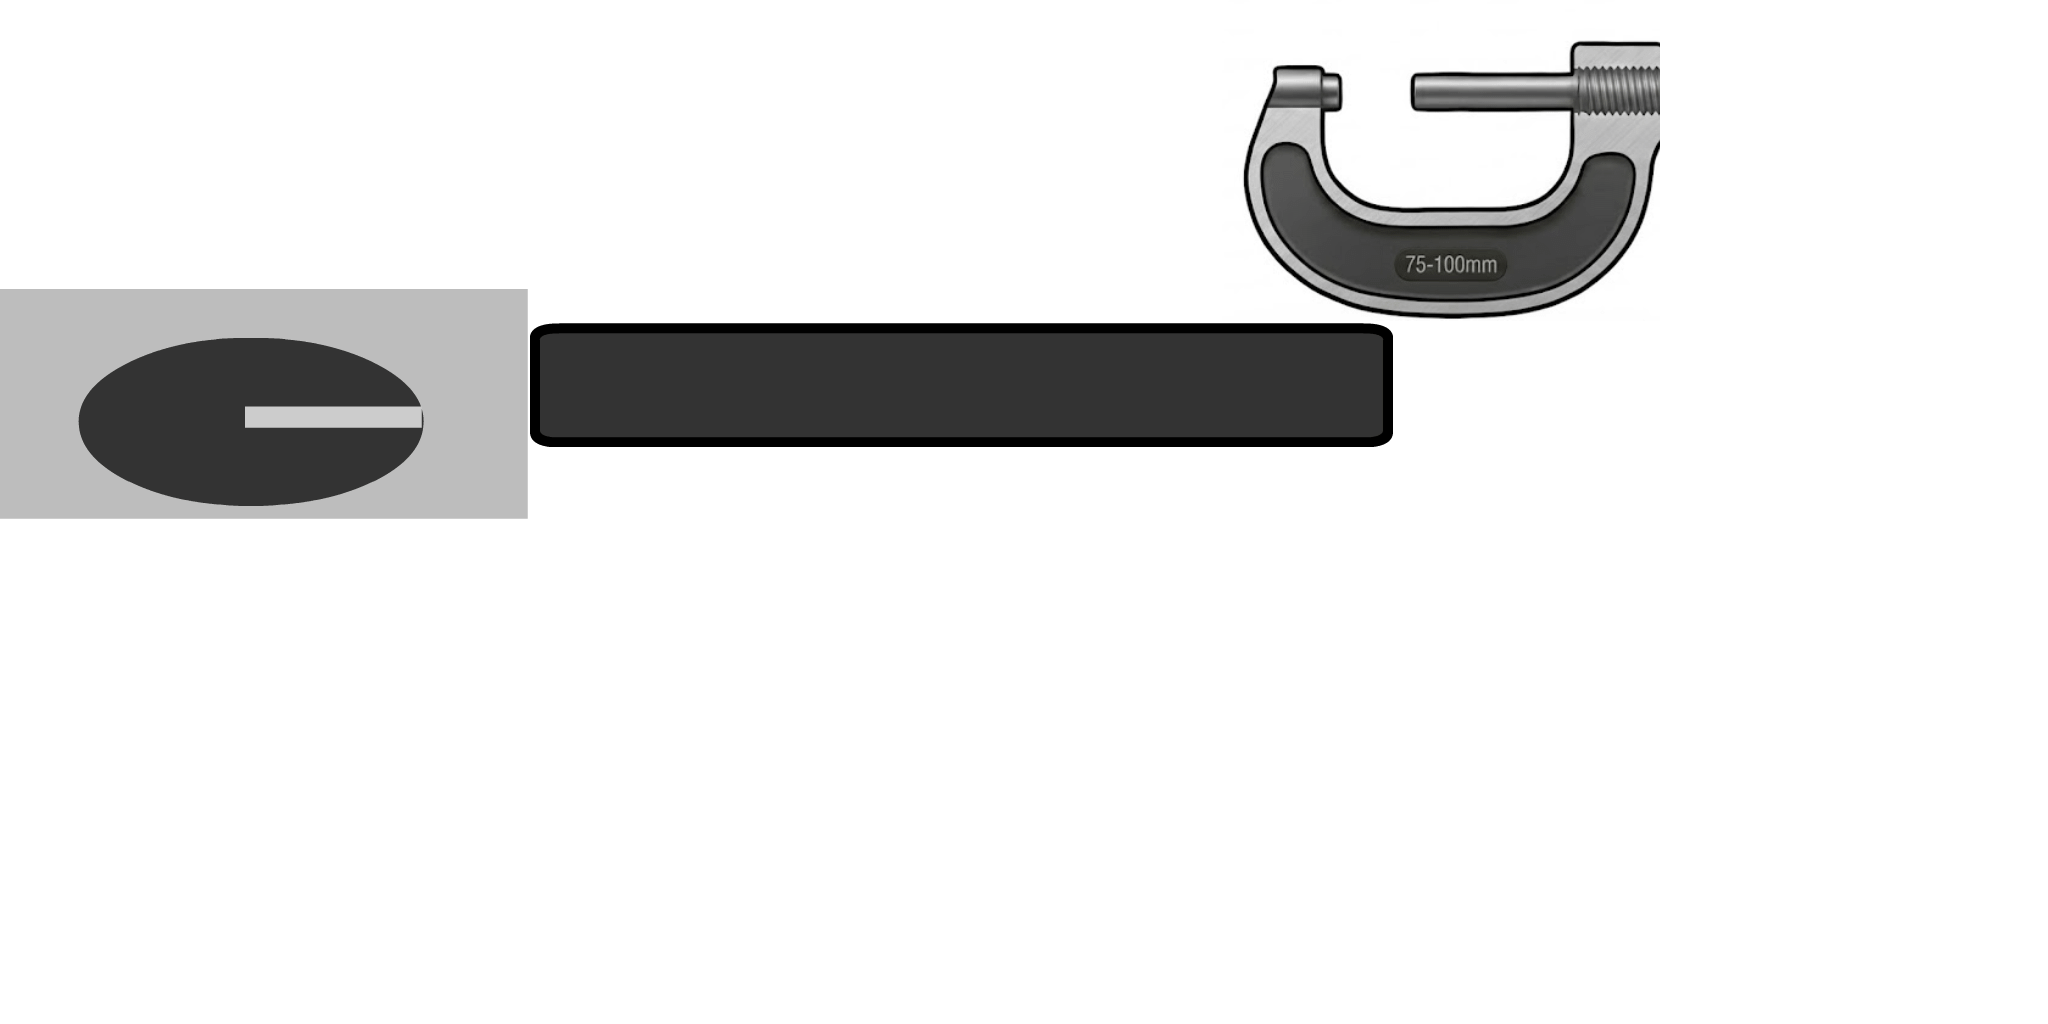
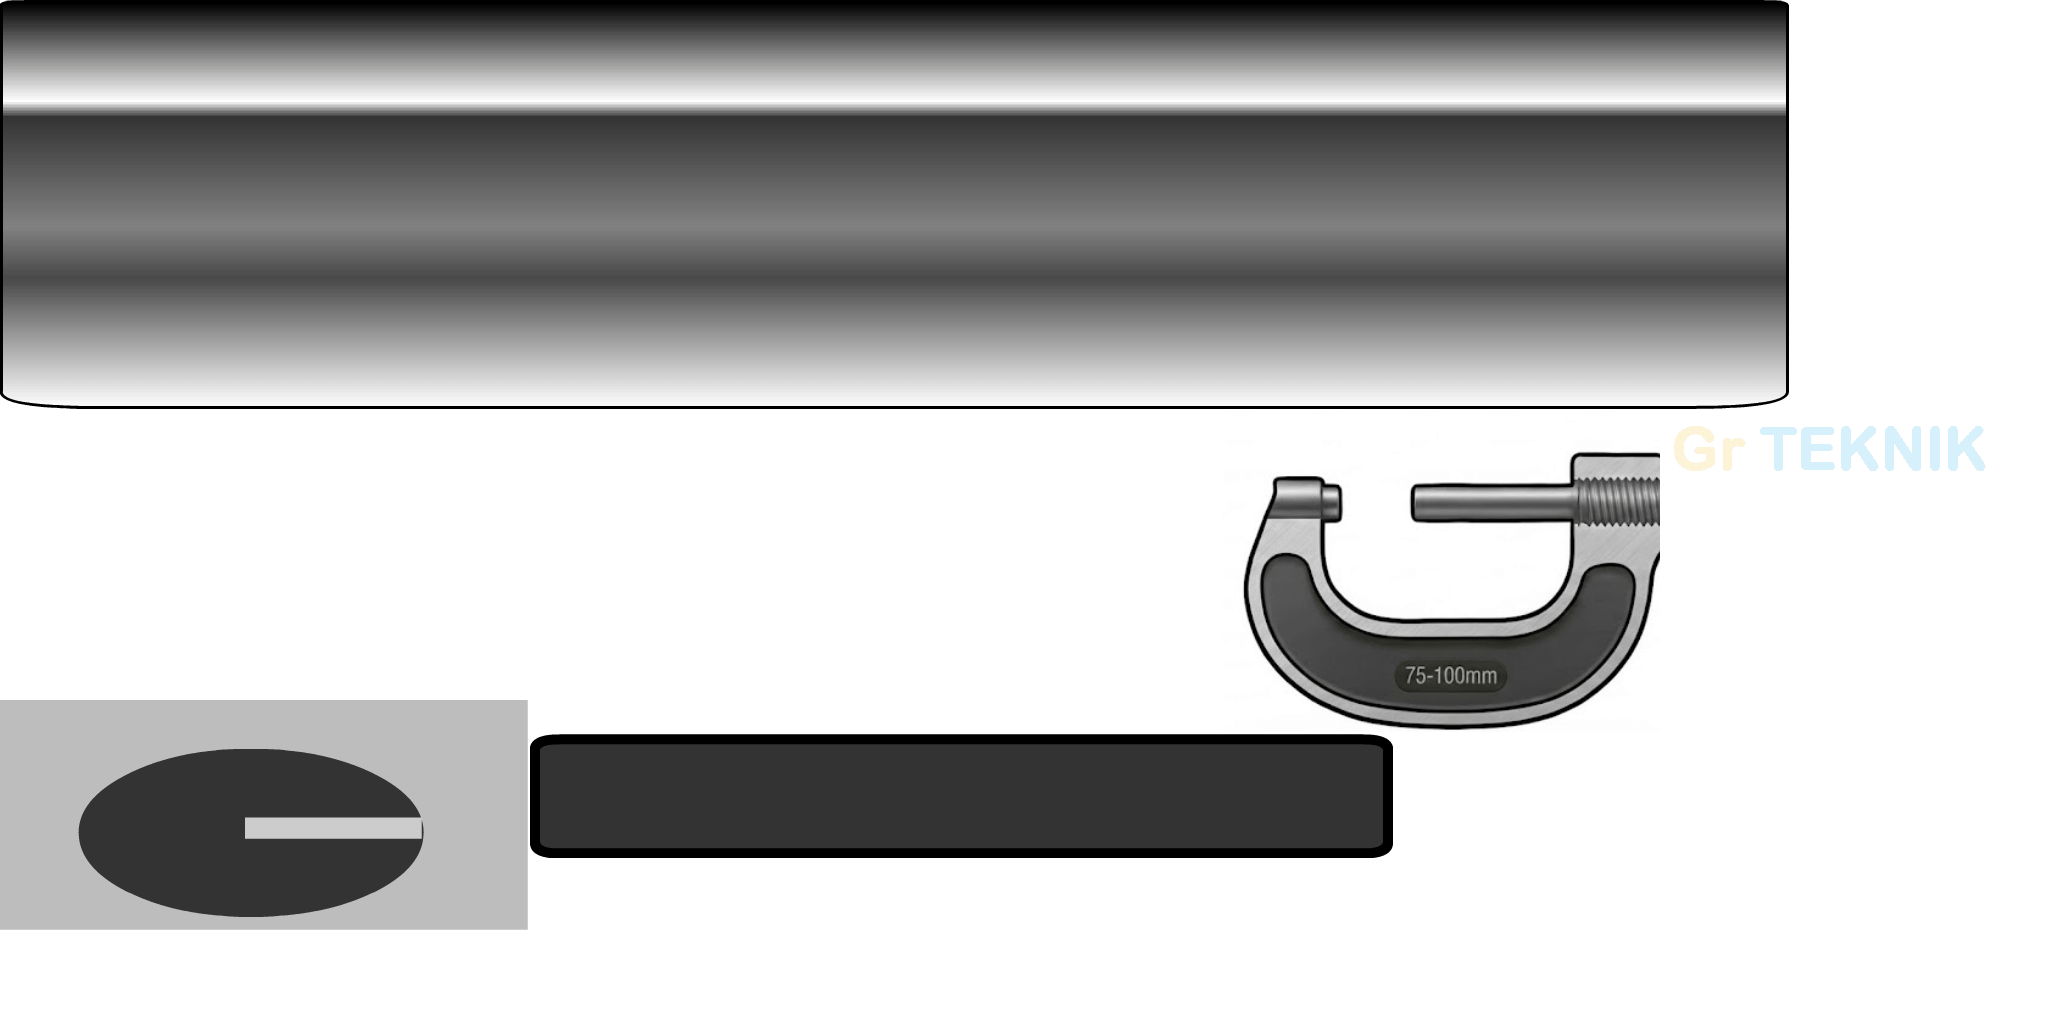
Add files via upload

diff --git a/Kukuh_Adityo_Prastowo/Alat Ukur/Micrometer/micrometer50.js b/Kukuh_Adityo_Prastowo/Alat Ukur/Micrometer/micrometer50.js
@@ -3,7 +3,7 @@
 var p; // shortcut to reference prototypes
 var lib={};var ss={};var img={};
 lib.ssMetadata = [
-		{name:"micrometer50_atlas_1", frames: [[530,323,863,124],[0,0,1220,287],[0,289,528,230],[1222,0,438,321]]}
+		{name:"micrometer50_atlas_1", frames: [[0,0,1789,409],[530,734,863,124],[0,411,1220,287],[0,700,528,230],[1222,411,438,321],[1662,411,335,73]]}
 ];
 
 
@@ -27,10 +27,17 @@ lib.ssMetadata = [
 
 
 
-(lib.CachedBmp_36 = function() {
-	this.initialize(img.CachedBmp_36);
+(lib.CachedBmp_40 = function() {
+	this.initialize(ss["micrometer50_atlas_1"]);
+	this.gotoAndStop(0);
+}).prototype = p = new cjs.Sprite();
+
+
+
+(lib.CachedBmp_39 = function() {
+	this.initialize(img.CachedBmp_39);
 }).prototype = p = new cjs.Bitmap();
-p.nominalBounds = new cjs.Rectangle(0,0,3835,409);
+p.nominalBounds = new cjs.Rectangle(0,0,2199,383);
 
 
 (lib.CachedBmp_31 = function() {
@@ -41,28 +48,47 @@ p.nominalBounds = new cjs.Rectangle(0,0,3252,304);
 
 (lib.CachedBmp_30 = function() {
 	this.initialize(ss["micrometer50_atlas_1"]);
-	this.gotoAndStop(0);
+	this.gotoAndStop(1);
 }).prototype = p = new cjs.Sprite();
 
 
 
 (lib.CachedBmp_29 = function() {
 	this.initialize(ss["micrometer50_atlas_1"]);
-	this.gotoAndStop(1);
+	this.gotoAndStop(2);
 }).prototype = p = new cjs.Sprite();
 
 
 
 (lib.CachedBmp_28 = function() {
 	this.initialize(ss["micrometer50_atlas_1"]);
-	this.gotoAndStop(2);
+	this.gotoAndStop(3);
 }).prototype = p = new cjs.Sprite();
 
 
 
+(lib.CachedBmp_38 = function() {
+	this.initialize(img.CachedBmp_38);
+}).prototype = p = new cjs.Bitmap();
+p.nominalBounds = new cjs.Rectangle(0,0,2567,1445);
+
+
+(lib.CachedBmp_37 = function() {
+	this.initialize(img.CachedBmp_37);
+}).prototype = p = new cjs.Bitmap();
+p.nominalBounds = new cjs.Rectangle(0,0,2574,1452);
+
+
 (lib.Bitmap1 = function() {
 	this.initialize(ss["micrometer50_atlas_1"]);
-	this.gotoAndStop(3);
+	this.gotoAndStop(4);
+}).prototype = p = new cjs.Sprite();
+
+
+
+(lib.BitmapGrTeknik = function() {
+	this.initialize(ss["micrometer50_atlas_1"]);
+	this.gotoAndStop(5);
 }).prototype = p = new cjs.Sprite();
 // helper functions:
 
@@ -273,14 +299,29 @@ if (reversed == null) { reversed = false; }
 	this.timeline.addTween(cjs.Tween.get(this).call(this.frame_0).wait(1));
 
 	// Layer_1
-	this.instance = new lib.CachedBmp_36();
-	this.instance.setTransform(-0.35,-57.35,0.3208,0.3208);
+	this.instance = new lib.BitmapGrTeknik();
+	this.instance.setTransform(-15.95,-12.95,1.7774,0.4864);
 
-	this.timeline.addTween(cjs.Tween.get(this.instance).wait(1));
+	this.instance_1 = new lib.BitmapGrTeknik();
+	this.instance_1.setTransform(-15.95,-12.95,1.7774,0.4864);
+
+	this.instance_2 = new lib.BitmapGrTeknik();
+	this.instance_2.setTransform(-15.95,-12.95,1.7774,0.4864);
+
+	this.instance_3 = new lib.BitmapGrTeknik();
+	this.instance_3.setTransform(-15.95,-12.95,1.7774,0.4864);
+
+	this.instance_4 = new lib.CachedBmp_40();
+	this.instance_4.setTransform(-0.4,-57.35,0.3208,0.3208);
+
+	this.instance_5 = new lib.CachedBmp_39();
+	this.instance_5.setTransform(524.6,-52.95,0.3208,0.3208);
+
+	this.timeline.addTween(cjs.Tween.get({}).to({state:[{t:this.instance_5},{t:this.instance_4},{t:this.instance_3},{t:this.instance_2},{t:this.instance_1},{t:this.instance}]}).wait(1));
 
 	this._renderFirstFrame();
 
-}).prototype = getMCSymbolPrototype(lib.rachet, new cjs.Rectangle(-0.3,-57.3,1230.3,131.2), null);
+}).prototype = getMCSymbolPrototype(lib.rachet, new cjs.Rectangle(-15.9,-57.3,1246,131.2), null);
 
 
 (lib.kalibrasiBtn = function(mode,startPosition,loop,reversed) {
@@ -1048,7 +1089,7 @@ if (reversed == null) { reversed = false; }
 
 	this._renderFirstFrame();
 
-}).prototype = getMCSymbolPrototype(lib.Micrometer, new cjs.Rectangle(-1464.1,-418.1,3075.8999999999996,720.6), null);
+}).prototype = getMCSymbolPrototype(lib.Micrometer, new cjs.Rectangle(-1464.1,-418.1,3076,720.6), null);
 
 
 // stage content:
@@ -1070,10 +1111,151 @@ if (reversed == null) { reversed = false; }
 
 	this.timeline.addTween(cjs.Tween.get(this.micrometer).wait(1));
 
+	// BG
+	this.instance = new lib.CachedBmp_38();
+	this.instance.setTransform(-3.45,-1.35,0.5,0.5);
+
+	this.instance_1 = new lib.BitmapGrTeknik();
+	this.instance_1.setTransform(55.8,654.8,0.7814,0.7814);
+
+	this.instance_2 = new lib.BitmapGrTeknik();
+	this.instance_2.setTransform(844.5,654.8,0.7814,0.7814);
+
+	this.instance_3 = new lib.BitmapGrTeknik();
+	this.instance_3.setTransform(578.8,654.8,0.7814,0.7814);
+
+	this.instance_4 = new lib.BitmapGrTeknik();
+	this.instance_4.setTransform(321.55,654.8,0.7814,0.7814);
+
+	this.instance_5 = new lib.BitmapGrTeknik();
+	this.instance_5.setTransform(967.9,594.05,0.7814,0.7814);
+
+	this.instance_6 = new lib.BitmapGrTeknik();
+	this.instance_6.setTransform(702.1,594.05,0.7814,0.7814);
+
+	this.instance_7 = new lib.BitmapGrTeknik();
+	this.instance_7.setTransform(436.4,594.05,0.7814,0.7814);
+
+	this.instance_8 = new lib.BitmapGrTeknik();
+	this.instance_8.setTransform(179.15,594.05,0.7814,0.7814);
+
+	this.instance_9 = new lib.BitmapGrTeknik();
+	this.instance_9.setTransform(55.8,523.85,0.7814,0.7814);
+
+	this.instance_10 = new lib.BitmapGrTeknik();
+	this.instance_10.setTransform(844.5,523.85,0.7814,0.7814);
+
+	this.instance_11 = new lib.BitmapGrTeknik();
+	this.instance_11.setTransform(578.8,523.85,0.7814,0.7814);
+
+	this.instance_12 = new lib.BitmapGrTeknik();
+	this.instance_12.setTransform(321.55,523.85,0.7814,0.7814);
+
+	this.instance_13 = new lib.BitmapGrTeknik();
+	this.instance_13.setTransform(55.8,398.55,0.7814,0.7814);
+
+	this.instance_14 = new lib.BitmapGrTeknik();
+	this.instance_14.setTransform(844.5,398.55,0.7814,0.7814);
+
+	this.instance_15 = new lib.BitmapGrTeknik();
+	this.instance_15.setTransform(578.8,398.55,0.7814,0.7814);
+
+	this.instance_16 = new lib.BitmapGrTeknik();
+	this.instance_16.setTransform(321.55,398.55,0.7814,0.7814);
+
+	this.instance_17 = new lib.BitmapGrTeknik();
+	this.instance_17.setTransform(960.3,333.1,0.7814,0.7814);
+
+	this.instance_18 = new lib.BitmapGrTeknik();
+	this.instance_18.setTransform(695.5,333.1,0.7814,0.7814);
+
+	this.instance_19 = new lib.BitmapGrTeknik();
+	this.instance_19.setTransform(429.75,333.1,0.7814,0.7814);
+
+	this.instance_20 = new lib.BitmapGrTeknik();
+	this.instance_20.setTransform(172.55,333.1,0.7814,0.7814);
+
+	this.instance_21 = new lib.BitmapGrTeknik();
+	this.instance_21.setTransform(57.65,264.75,0.7814,0.7814);
+
+	this.instance_22 = new lib.BitmapGrTeknik();
+	this.instance_22.setTransform(845.45,264.75,0.7814,0.7814);
+
+	this.instance_23 = new lib.BitmapGrTeknik();
+	this.instance_23.setTransform(579.7,264.75,0.7814,0.7814);
+
+	this.instance_24 = new lib.BitmapGrTeknik();
+	this.instance_24.setTransform(323.45,264.75,0.7814,0.7814);
+
+	this.instance_25 = new lib.BitmapGrTeknik();
+	this.instance_25.setTransform(967.9,201.15,0.7814,0.7814);
+
+	this.instance_26 = new lib.BitmapGrTeknik();
+	this.instance_26.setTransform(702.1,201.15,0.7814,0.7814);
+
+	this.instance_27 = new lib.BitmapGrTeknik();
+	this.instance_27.setTransform(436.4,201.15,0.7814,0.7814);
+
+	this.instance_28 = new lib.BitmapGrTeknik();
+	this.instance_28.setTransform(179.15,201.15,0.7814,0.7814);
+
+	this.instance_29 = new lib.BitmapGrTeknik();
+	this.instance_29.setTransform(55.8,140.4,0.7814,0.7814);
+
+	this.instance_30 = new lib.BitmapGrTeknik();
+	this.instance_30.setTransform(844.5,140.4,0.7814,0.7814);
+
+	this.instance_31 = new lib.BitmapGrTeknik();
+	this.instance_31.setTransform(578.8,140.4,0.7814,0.7814);
+
+	this.instance_32 = new lib.BitmapGrTeknik();
+	this.instance_32.setTransform(321.55,140.4,0.7814,0.7814);
+
+	this.instance_33 = new lib.BitmapGrTeknik();
+	this.instance_33.setTransform(960.3,73.95,0.7814,0.7814);
+
+	this.instance_34 = new lib.BitmapGrTeknik();
+	this.instance_34.setTransform(695.5,73.95,0.7814,0.7814);
+
+	this.instance_35 = new lib.BitmapGrTeknik();
+	this.instance_35.setTransform(429.75,73.95,0.7814,0.7814);
+
+	this.instance_36 = new lib.BitmapGrTeknik();
+	this.instance_36.setTransform(172.55,73.95,0.7814,0.7814);
+
+	this.instance_37 = new lib.BitmapGrTeknik();
+	this.instance_37.setTransform(57.65,4.7,0.7814,0.7814);
+
+	this.instance_38 = new lib.BitmapGrTeknik();
+	this.instance_38.setTransform(845.45,4.7,0.7814,0.7814);
+
+	this.instance_39 = new lib.BitmapGrTeknik();
+	this.instance_39.setTransform(579.7,4.7,0.7814,0.7814);
+
+	this.instance_40 = new lib.BitmapGrTeknik();
+	this.instance_40.setTransform(323.45,4.7,0.7814,0.7814);
+
+	this.instance_41 = new lib.BitmapGrTeknik();
+	this.instance_41.setTransform(967.9,454.55,0.7814,0.7814);
+
+	this.instance_42 = new lib.BitmapGrTeknik();
+	this.instance_42.setTransform(702.1,454.55,0.7814,0.7814);
+
+	this.instance_43 = new lib.BitmapGrTeknik();
+	this.instance_43.setTransform(436.4,454.55,0.7814,0.7814);
+
+	this.instance_44 = new lib.BitmapGrTeknik();
+	this.instance_44.setTransform(179.15,454.55,0.7814,0.7814);
+
+	this.instance_45 = new lib.CachedBmp_37();
+	this.instance_45.setTransform(-6.65,-5.1,0.5,0.5);
+
+	this.timeline.addTween(cjs.Tween.get({}).to({state:[{t:this.instance_45},{t:this.instance_44},{t:this.instance_43},{t:this.instance_42},{t:this.instance_41},{t:this.instance_40},{t:this.instance_39},{t:this.instance_38},{t:this.instance_37},{t:this.instance_36},{t:this.instance_35},{t:this.instance_34},{t:this.instance_33},{t:this.instance_32},{t:this.instance_31},{t:this.instance_30},{t:this.instance_29},{t:this.instance_28},{t:this.instance_27},{t:this.instance_26},{t:this.instance_25},{t:this.instance_24},{t:this.instance_23},{t:this.instance_22},{t:this.instance_21},{t:this.instance_20},{t:this.instance_19},{t:this.instance_18},{t:this.instance_17},{t:this.instance_16},{t:this.instance_15},{t:this.instance_14},{t:this.instance_13},{t:this.instance_12},{t:this.instance_11},{t:this.instance_10},{t:this.instance_9},{t:this.instance_8},{t:this.instance_7},{t:this.instance_6},{t:this.instance_5},{t:this.instance_4},{t:this.instance_3},{t:this.instance_2},{t:this.instance_1},{t:this.instance}]}).wait(1));
+
 	this._renderFirstFrame();
 
 }).prototype = p = new lib.AnMovieClip();
-p.nominalBounds = new cjs.Rectangle(707.8,393.4,528.8,199.5);
+p.nominalBounds = new cjs.Rectangle(633.4,354.9,647.0000000000001,366.30000000000007);
 // library properties:
 lib.properties = {
 	id: '0EBB65583D4AB54DB138DE5BD487B772',
@@ -1083,9 +1265,11 @@ lib.properties = {
 	color: "#FFFFFF",
 	opacity: 1.00,
 	manifest: [
-		{src:"images/CachedBmp_36.png?1788241404004", id:"CachedBmp_36"},
-		{src:"images/CachedBmp_31.png?1788241404004", id:"CachedBmp_31"},
-		{src:"images/micrometer50_atlas_1.png?1788241403956", id:"micrometer50_atlas_1"}
+		{src:"images/CachedBmp_39.png?1788245603092", id:"CachedBmp_39"},
+		{src:"images/CachedBmp_31.png?1788245603092", id:"CachedBmp_31"},
+		{src:"images/CachedBmp_38.png?1788245603092", id:"CachedBmp_38"},
+		{src:"images/CachedBmp_37.png?1788245603092", id:"CachedBmp_37"},
+		{src:"images/micrometer50_atlas_1.png?1788245603033", id:"micrometer50_atlas_1"}
 	],
 	preloads: []
 };

diff --git a/Kukuh_Adityo_Prastowo/Alat Ukur/Micrometer/micrometer50.html b/Kukuh_Adityo_Prastowo/Alat Ukur/Micrometer/micrometer50.html
@@ -22,7 +22,7 @@
   }
 </style>
 <script src="https://code.createjs.com/1.0.0/createjs.min.js"></script>
-<script src="micrometer50.js?1788241404124"></script>
+<script src="micrometer50.js?1788245603207"></script>
 <script>
 var canvas, stage, exportRoot, anim_container, dom_overlay_container, fnStartAnimation;
 function init() {
@@ -76,6 +76,6 @@ function handleComplete(evt,comp) {
 		<div id="dom_overlay_container" style="pointer-events:none; overflow:hidden; width:1280px; height:720px; position: absolute; left: 0px; top: 0px; display: none;">
 		</div>
 	</div>
-    <div id='_preload_div_' style='position:absolute; top:0; left:0; display: inline-block; height:720px; width: 1280px; text-align: center;'>	<span style='display: inline-block; height: 100%; vertical-align: middle;'></span>	<img src=images/_preloader.gif?1788241404125 style='vertical-align: middle; max-height: 100%'/></div>
+    <div id='_preload_div_' style='position:absolute; top:0; left:0; display: inline-block; height:720px; width: 1280px; text-align: center;'>	<span style='display: inline-block; height: 100%; vertical-align: middle;'></span>	<img src=images/_preloader.gif?1788245603208 style='vertical-align: middle; max-height: 100%'/></div>
 </body>
 </html>
